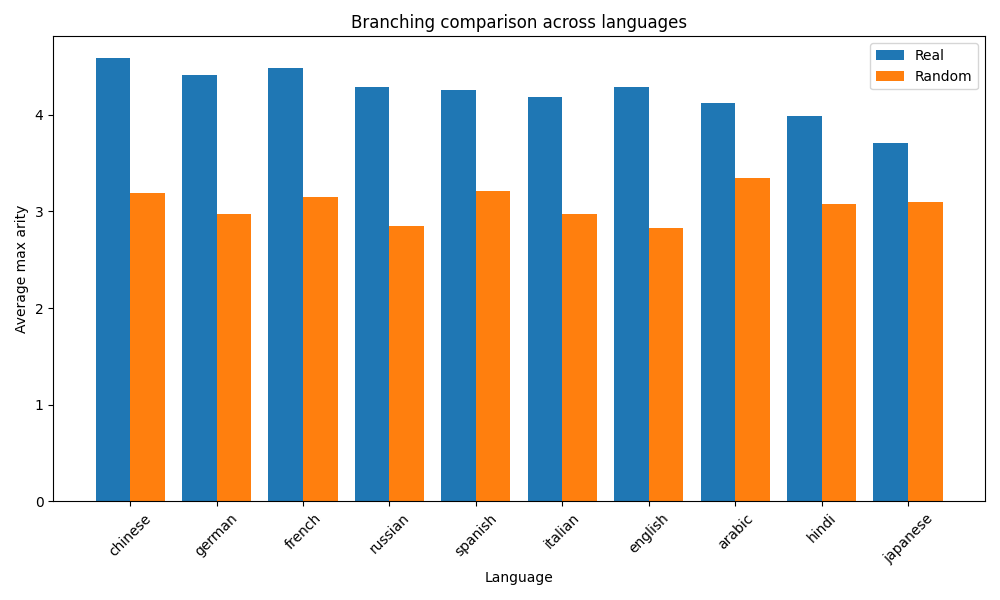
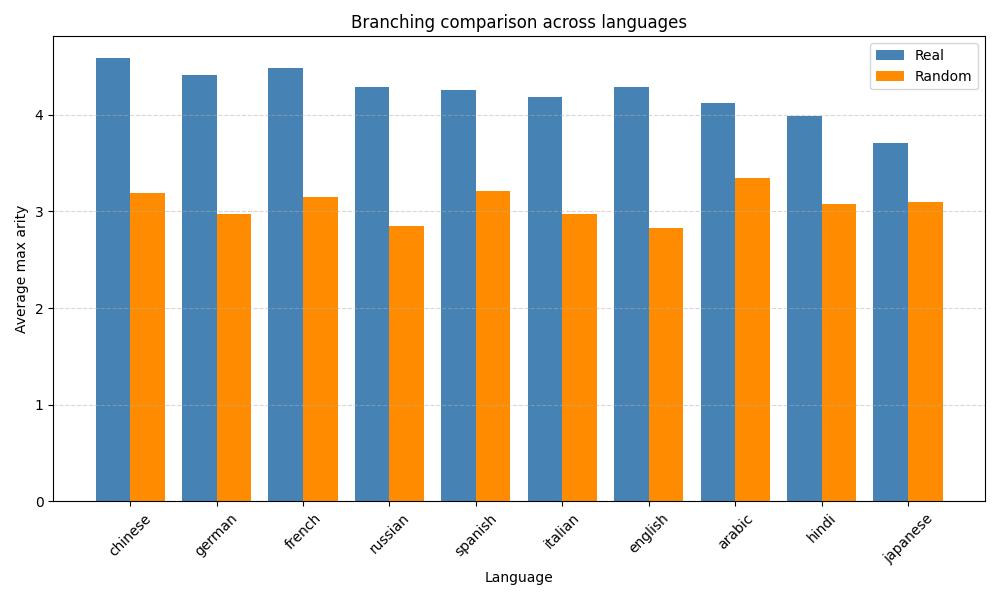
Day ?

diff --git a/scripts/cross_language_plot.py b/scripts/cross_language_plot.py
@@ -3,8 +3,8 @@ import matplotlib.pyplot as plt
 
 df = pd.read_csv("results/cross_language_summary.csv")
 
-# sort languages by depth gap for clearer plots
-df = df.sort_values("Depth gap", ascending=False)
+# sort languages for cleaner plots
+df = df.sort_values("Depth gap", ascending=False).reset_index(drop=True)
 
 # -----------------------------
 # 1. Depth gap across languages
@@ -12,16 +12,16 @@ df = df.sort_values("Depth gap", ascending=False)
 
 plt.figure(figsize=(10,6))
 
-plt.bar(df["Language"], df["Depth gap"])
+plt.bar(df["Language"], df["Depth gap"], color="steelblue")
 
 plt.ylabel("Average depth difference (Random − Real)")
 plt.xlabel("Language")
 plt.title("Depth gap across languages")
 
 plt.xticks(rotation=45)
+plt.grid(axis="y", linestyle="--", alpha=0.5)
 
 plt.tight_layout()
-
 plt.savefig("results/cross_language_depth_gap.png")
 plt.close()
 
@@ -32,16 +32,16 @@ plt.close()
 
 plt.figure(figsize=(10,6))
 
-plt.bar(df["Language"], df["Random deeper %"])
+plt.bar(df["Language"], df["Random deeper %"], color="darkorange")
 
 plt.ylabel("Percent sentences where random tree is deeper")
 plt.xlabel("Language")
 plt.title("How often random trees are deeper")
 
 plt.xticks(rotation=45)
+plt.grid(axis="y", linestyle="--", alpha=0.5)
 
 plt.tight_layout()
-
 plt.savefig("results/random_deeper_percentage.png")
 plt.close()
 
@@ -54,8 +54,8 @@ x = range(len(df))
 
 plt.figure(figsize=(10,6))
 
-plt.bar(x, df["Real max arity"], width=0.4, label="Real", align="center")
-plt.bar([i + 0.4 for i in x], df["Random max arity"], width=0.4, label="Random")
+plt.bar(x, df["Real max arity"], width=0.4, label="Real", color="steelblue")
+plt.bar([i + 0.4 for i in x], df["Random max arity"], width=0.4, label="Random", color="darkorange")
 
 plt.xticks([i + 0.2 for i in x], df["Language"], rotation=45)
 
@@ -64,9 +64,9 @@ plt.xlabel("Language")
 plt.title("Branching comparison across languages")
 
 plt.legend()
+plt.grid(axis="y", linestyle="--", alpha=0.5)
 
 plt.tight_layout()
-
 plt.savefig("results/cross_language_arity_comparison.png")
 plt.close()
 
@@ -77,17 +77,23 @@ plt.close()
 
 plt.figure(figsize=(8,6))
 
-plt.scatter(df["Depth gap"], df["Real max arity"])
+plt.scatter(df["Depth gap"], df["Real max arity"], color="purple")
 
-for i, lang in enumerate(df["Language"]):
-    plt.text(df["Depth gap"][i], df["Real max arity"][i], lang)
+for i in range(len(df)):
+    plt.text(
+        df.iloc[i]["Depth gap"],
+        df.iloc[i]["Real max arity"],
+        df.iloc[i]["Language"],
+        fontsize=9
+    )
 
 plt.xlabel("Depth gap (Random − Real)")
 plt.ylabel("Real max arity")
 plt.title("Relationship between tree depth and branching")
 
-plt.tight_layout()
+plt.grid(True, linestyle="--", alpha=0.5)
 
+plt.tight_layout()
 plt.savefig("results/depth_vs_arity_scatter.png")
 plt.close()
 

diff --git a/scripts/cross_language_table.py b/scripts/cross_language_table.py
@@ -14,6 +14,9 @@ for language in os.listdir(RESULT_DIR):
 
     df = pd.read_csv(csv_path)
 
+    real_depth = df["real_depth"].mean()
+    random_depth = df["random_depth"].mean()
+
     depth_gap = (df["random_depth"] - df["real_depth"]).mean()
 
     random_deeper = (df["random_depth"] > df["real_depth"]).mean() * 100
@@ -23,6 +26,9 @@ for language in os.listdir(RESULT_DIR):
 
     rows.append({
         "Language": language,
+        "Sentences": len(df),
+        "Real depth": real_depth,
+        "Random depth": random_depth,
         "Depth gap": depth_gap,
         "Random deeper %": random_deeper,
         "Real max arity": real_arity,
